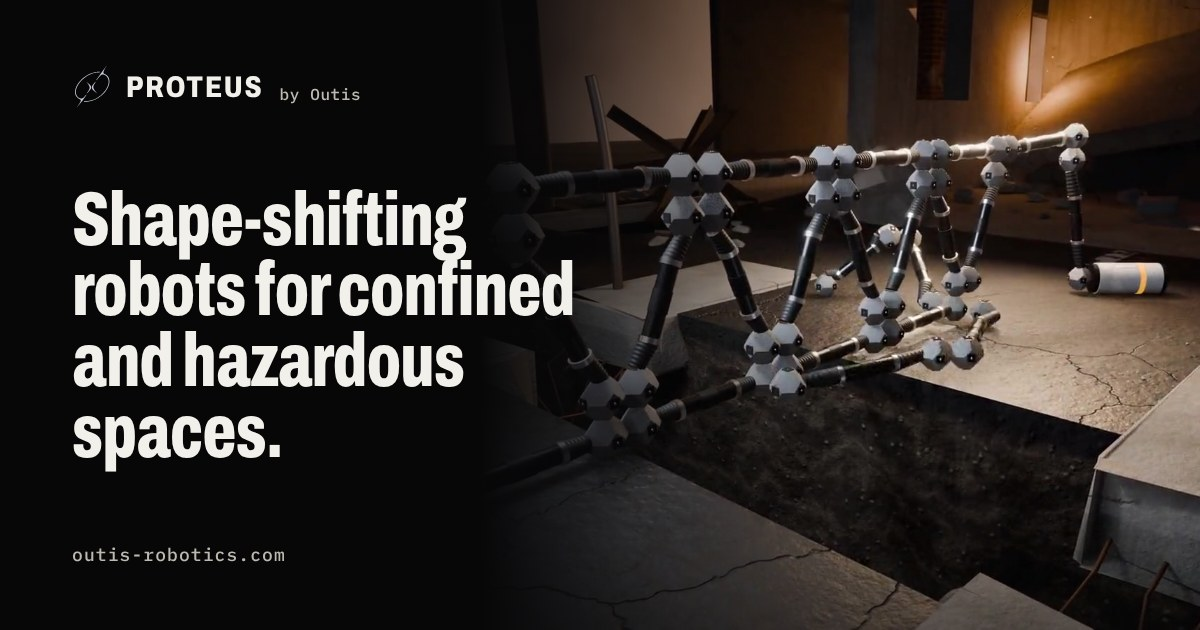
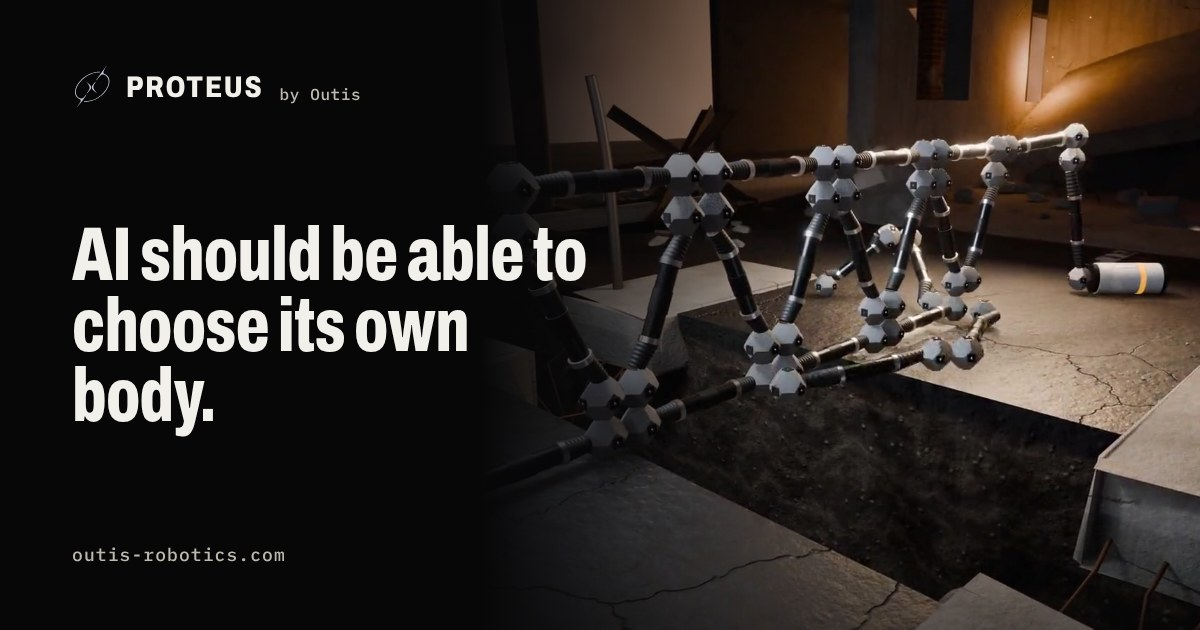
Hero: AI should be able to choose its own body; vision section now leads with Proteus redefines embodied AI; preview image updated
Claude-Session: https://claude.ai/code/session_011kUXctnYccCsL6ks7P2tcX

Changed region(s): [[0.0617, 0.3016, 0.4933, 0.754]]

diff --git a/index.html b/index.html
@@ -3,20 +3,20 @@
 <head>
 <meta charset="utf-8">
 <meta name="viewport" content="width=device-width, initial-scale=1, viewport-fit=cover">
-<title>Proteus by Outis – Shape-shifting robots for confined and hazardous spaces</title>
-<meta name="description" content="Identical robot modules that walk in, slip through narrow openings and brace to work with force on site, so nobody has to go in first. Designed and built in Berlin.">
+<title>Proteus by Outis – AI should be able to choose its own body</title>
+<meta name="description" content="Identical robot modules dock into whatever shape the job or terrain demands, from narrow openings to rubble, so nobody has to go in first. Designed and built in Berlin.">
 
 <meta name="theme-color" content="#070708">
 <meta property="og:type" content="website">
 <meta property="og:site_name" content="Proteus by Outis">
-<meta property="og:title" content="Proteus by Outis – Shape-shifting robots for confined and hazardous spaces">
-<meta property="og:description" content="Identical robot modules that walk in, slip through narrow openings and brace to work with force on site, so nobody has to go in first. Designed and built in Berlin.">
+<meta property="og:title" content="Proteus by Outis – AI should be able to choose its own body">
+<meta property="og:description" content="Identical robot modules dock into whatever shape the job or terrain demands, from narrow openings to rubble, so nobody has to go in first. Designed and built in Berlin.">
 <link rel="canonical" href="https://outis-robotics.com/">
 <meta property="og:url" content="https://outis-robotics.com/">
-<meta property="og:image" content="https://outis-robotics.com/assets/img/og.jpg?v=2">
+<meta property="og:image" content="https://outis-robotics.com/assets/img/og.jpg?v=3">
 <meta property="og:image:width" content="1200">
 <meta property="og:image:height" content="630">
-<meta property="og:image:alt" content="Proteus by Outis: shape-shifting robots for confined and hazardous spaces.">
+<meta property="og:image:alt" content="Proteus by Outis: AI should be able to choose its own body.">
 <meta name="twitter:card" content="summary_large_image">
 <link rel="icon" href="assets/img/favicon.svg" type="image/svg+xml">
 <link rel="icon" href="assets/img/favicon-32.png" sizes="32x32" type="image/png">
@@ -61,8 +61,8 @@
     <div class="hero__shade" aria-hidden="true"></div>
   </div>
   <div class="wrap hero__content">
-    <h1 id="hero-title" class="display hero__title">Shape-shifting robots for confined and hazardous spaces.</h1>
-    <p class="lead hero__lead">Identical modules walk in, slip through narrow openings and brace to work with force on site, so nobody has to go in first.</p>
+    <h1 id="hero-title" class="display hero__title">AI should be able to choose its own body.</h1>
+    <p class="lead hero__lead">Identical robot modules dock into whatever shape the job or terrain demands, from narrow openings to rubble, so nobody has to go in first.</p>
     <div class="hero__actions">
       <a class="btn btn--accent" href="mailto:yannik.trinn@outis-robotics.com?subject=Demo%20request%20%E2%80%93%20Proteus">Book a demo</a>
       <a class="btn btn--ghost" href="#film" data-play-film><span class="btn__play" aria-hidden="true"></span>Watch the mission (1:45) <span class="btn__sound">Sound on</span></a>
@@ -282,10 +282,9 @@
   <div class="wrap vision-teaser__layout">
     <div data-reveal>
       <p class="eyebrow">Our vision</p>
-      <h2 id="vision-title" class="h2 vision-teaser__title">AI should be able to choose its own body.</h2>
+      <h2 id="vision-title" class="h2 vision-teaser__title">Proteus redefines embodied AI.</h2>
     </div>
     <div class="vision-teaser__copy" data-reveal>
-      <p class="vision-teaser__statement">Proteus redefines embodied AI.</p>
       <p class="vision-thesis__p">Computers became universal when one machine could run any program. Robots have not had that moment yet. Each one is still built around a single body, and that body decides where it can go, what it can reach and how hard it can push. Robot brains get better every month. The body has become the bottleneck.</p>
       <p class="vision-thesis__p">Proteus makes the body a choice. A pool of identical modules becomes the machine a task needs, splits into a team when there are several tasks and merges back when the job needs strength. One part, made by the million, does the work of a fleet of specialized machines: a broken module is swapped, not the machine, and capacity grows the way compute does.</p>
       <p class="vision-thesis__p">Modular robots have spent decades in labs, built to prove that reconfiguration works. Ours is built for paid work from the first module on, with load-bearing docks and our own swarm intelligence that decides which body to become and moves the modules as one. Each generation gets smaller and opens new work.</p>

diff --git a/vision/index.html b/vision/index.html
@@ -12,7 +12,7 @@
 <meta property="og:title" content="AI should be able to choose its own body.">
 <meta property="og:description" content="Smaller modules. More possible machines. Why we are redefining embodied AI.">
 <meta property="og:url" content="https://outis-robotics.com/vision/">
-<meta property="og:image" content="https://outis-robotics.com/assets/img/og.jpg?v=2">
+<meta property="og:image" content="https://outis-robotics.com/assets/img/og.jpg?v=3">
 <meta property="og:image:width" content="1200">
 <meta property="og:image:height" content="630">
 <meta property="og:image:alt" content="Proteus by Outis: shape-shifting robots for confined and hazardous spaces.">
